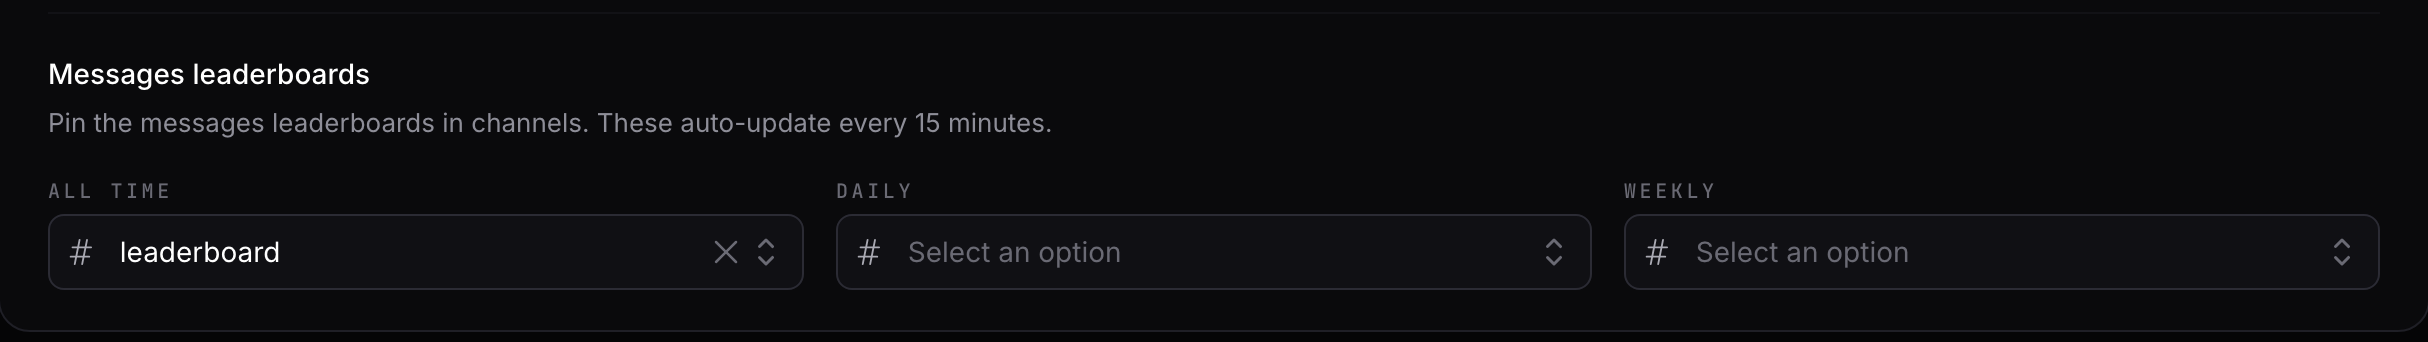
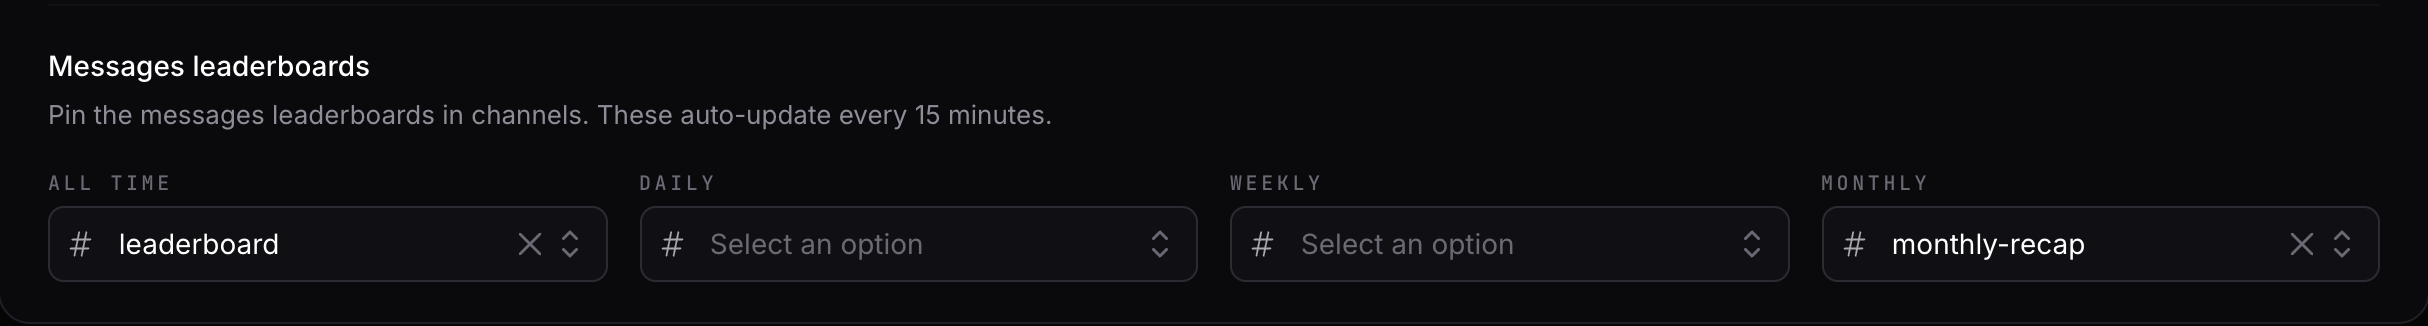
docs: document the monthly leaderboard time range

diff --git a/docs/commands/general.md b/docs/commands/general.md
@@ -43,8 +43,8 @@ The explanation for all the general commands available for Invite Tracker.
 
 | Command | Description |
 | --- | --- |
-| `/leaderboard invites [type<all time\|daily\|weekly>] [@role]` | Displays the server's invite leaderboard. You can also choose a type to display a leaderboard for all time, daily, and weekly. |
-| `/leaderboard messages [type<all time\|daily\|weekly>] [@role]` | Displays the server's message leaderboard. You can also choose a type to display a leaderboard for all time, daily, and weekly. |
+| `/leaderboard invites [type<all time\|daily\|weekly\|monthly>] [@role]` | Displays the server's invite leaderboard. You can also choose a type to display a leaderboard for all time, daily, weekly, and monthly. |
+| `/leaderboard messages [type<all time\|daily\|weekly\|monthly>] [@role]` | Displays the server's message leaderboard. You can also choose a type to display a leaderboard for all time, daily, weekly, and monthly. |
 | `/stats joins` | Displays the server's join statistics via a graph |
 | `/stats leaves` | Displays the server's leave statistics via a graph |
 | `/stats combined` | Displays the server's combined join and leave statistics via a graph |
@@ -52,5 +52,5 @@ The explanation for all the general commands available for Invite Tracker.
 ::: info
 The `[@role]` parameter allows you to filter the leaderboard to only show members with a specific role. This is useful for viewing leaderboards for specific teams, tiers, or groups in your server.
 
-<img src="/assets/premium.png" alt="Premium" style="display: inline; height: 1.2em; vertical-align: middle;" /> Role filtering on leaderboards is a Premium feature.
+<img src="/assets/premium.png" alt="Premium" style="display: inline; height: 1.2em; vertical-align: middle;" /> Role filtering on leaderboards and the monthly leaderboard type are Premium features.
 :::

diff --git a/docs/dashboard/pin-leaderboard.md b/docs/dashboard/pin-leaderboard.md
@@ -32,7 +32,7 @@ This feature sends an automatic updating message leaderboard to the selected cha
 After we press save, Invite Tracker will instantly create and pin a message leaderboard in the specified channel.
 
 ::: tip
-Daily/Weekly leaderboards show the previous 24 hours/week from the last 15 minute update.
+Daily, weekly and monthly leaderboards show the previous 24 hours, 7 days and 30 days from the last 15 minute update.
 :::
 
 ## Leaderboard Types
@@ -42,8 +42,9 @@ You can create separate pinned leaderboards for different time ranges:
 | Type | Description |
 | --- | --- |
 | **All Time** | Shows cumulative totals since the bot started tracking |
-| **Daily** | Shows activity from the last 24 hours, resetting each day |
-| **Weekly** | Shows activity from the last 7 days, resetting each week |
+| **Daily** | Shows activity from the last 24 hours |
+| **Weekly** | Shows activity from the last 7 days |
+| **Monthly** | Shows activity from the last 30 days |
 
 ::: tip
 You can have multiple leaderboards pinned in different channels - for example, an all-time leaderboard in your stats channel and a weekly leaderboard in your announcements channel.

diff --git a/docs/dashboard/leaderboard.md b/docs/dashboard/leaderboard.md
@@ -4,7 +4,7 @@ The leaderboard page gives premium servers a live view of their top inviters and
 
 ## Dashboard Leaderboard
 
-The dashboard leaderboard ranks the top 50 members by **invites** or **messages**, over **all time**, the **last 7 days** or the **last 24 hours**.
+The dashboard leaderboard ranks the top 50 members by **invites** or **messages**, over **all time**, the **last 30 days**, the **last 7 days** or the **last 24 hours**.
 
 For the invite leaderboard, every entry also shows:
 
